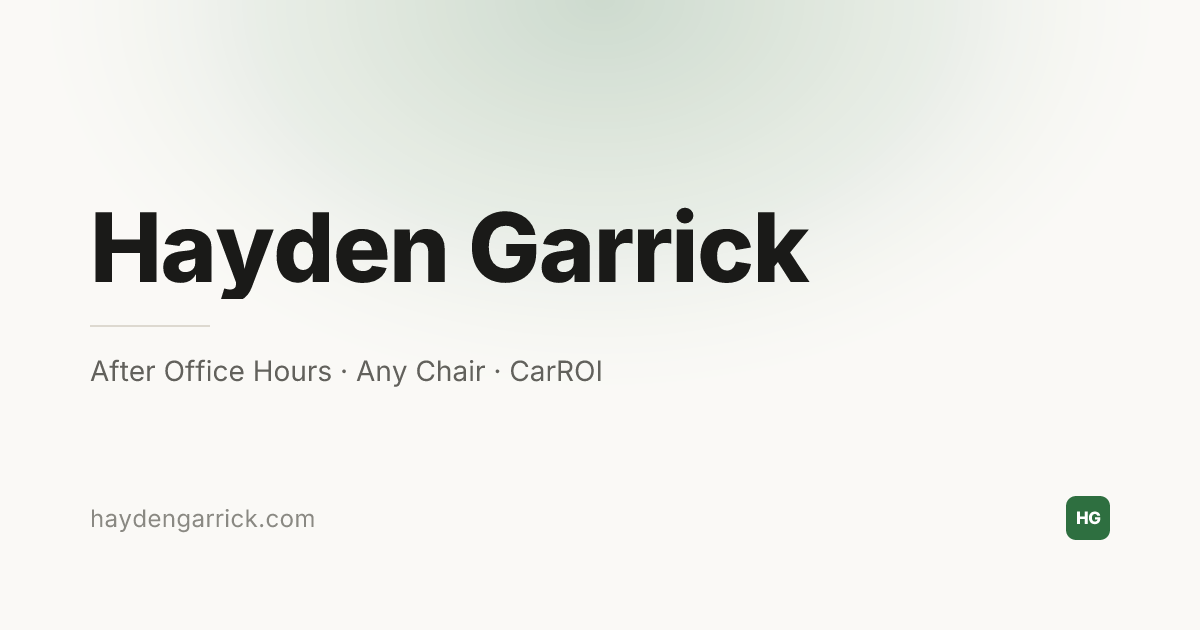
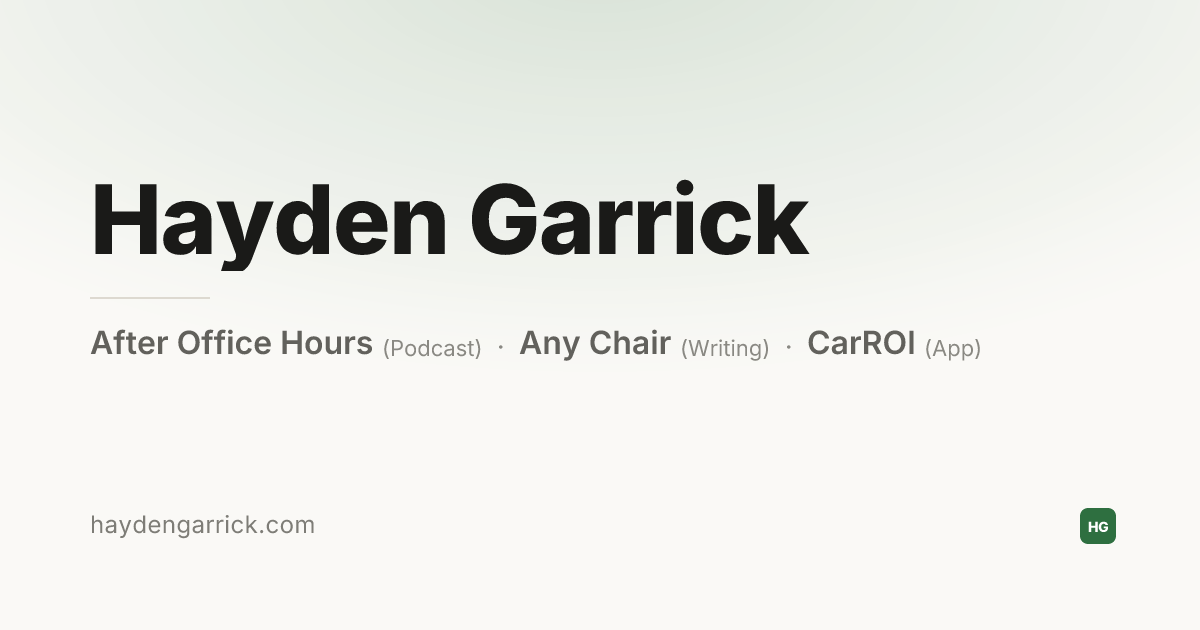
Refine OG card: layered subtitle, softer glow, tighter badge

diff --git a/src/lib/og/template.ts b/src/lib/og/template.ts
@@ -1,4 +1,4 @@
-import type { OgCardContent } from './types';
+import type { DescriptionSegment, OgCardContent } from './types';
 
 // A minimal stand-in for a React element — satori only cares about this
 // exact `{ type, props }` shape at runtime, so building the tree by hand
@@ -27,6 +27,10 @@ const COLOR = {
   faint: '#8a8983',
   line: '#ddd9d0',
   accent: '#2e6f40',
+  // Sits between `subtle` and `faint` — the footer URL wants slightly more
+  // contrast than the site's default "faint" tone without competing with
+  // the subtitle above it.
+  footer: '#7e7d77',
 } as const;
 
 export const OG_CANVAS = { width: 1200, height: 630 } as const;
@@ -48,7 +52,46 @@ function pickTitleFontSize(title: string): number {
 }
 
 function pickDescriptionFontSize(description: string): number {
-  return description.length > 100 ? 25 : 28;
+  return description.length > 100 ? 28 : 32;
+}
+
+// Inline styling for a single mixed-emphasis subtitle token — bold/higher-
+// contrast for the primary names, small/light/low-contrast for the quiet
+// "(Podcast)"-style descriptors and the "·" separators between groups.
+const SEGMENT_STYLE: Record<DescriptionSegment['emphasis'], Record<string, unknown>> = {
+  primary: { fontSize: 32, fontWeight: 600, color: COLOR.subtle },
+  secondary: { fontSize: 22, fontWeight: 400, color: COLOR.faint },
+  separator: { fontSize: 26, fontWeight: 400, color: COLOR.faint },
+};
+
+const SEGMENT_GAP: Record<DescriptionSegment['emphasis'], number> = {
+  primary: 14,
+  secondary: 8,
+  separator: 14,
+};
+
+function buildSegmentedDescription(segments: DescriptionSegment[]): SatoriNode {
+  return el(
+    'div',
+    {
+      display: 'flex',
+      flexDirection: 'row',
+      flexWrap: 'nowrap',
+      alignItems: 'baseline',
+    },
+    segments.map((segment, index) =>
+      el(
+        'div',
+        {
+          display: 'flex',
+          whiteSpace: 'nowrap',
+          marginLeft: index === 0 ? 0 : SEGMENT_GAP[segment.emphasis],
+          ...SEGMENT_STYLE[segment.emphasis],
+        },
+        segment.text,
+      ),
+    ),
+  );
 }
 
 export function buildOgNode(content: OgCardContent): SatoriNode {
@@ -72,7 +115,7 @@ export function buildOgNode(content: OgCardContent): SatoriNode {
     );
   }
 
-  const hasSecondaryContent = Boolean(content.description || content.meta);
+  const hasSecondaryContent = Boolean(content.description || content.descriptionSegments || content.meta);
 
   children.push(
     el(
@@ -110,7 +153,9 @@ export function buildOgNode(content: OgCardContent): SatoriNode {
     );
   }
 
-  if (content.description) {
+  if (content.descriptionSegments) {
+    children.push(buildSegmentedDescription(content.descriptionSegments));
+  } else if (content.description) {
     children.push(
       el(
         'div',
@@ -154,21 +199,24 @@ export function buildOgNode(content: OgCardContent): SatoriNode {
       flexGrow: 1,
       justifyContent: 'center',
       position: 'relative',
+      // Nudges the vertically-centered block up off dead-center for better
+      // balance against the footer row below it.
+      transform: 'translateY(-35px)',
     },
     children,
   );
 
   // Reproduces the site's own hero glow (see BaseLayout.astro) at card scale
-  // — a soft radial wash, not a hard-edged blob, kept subtle enough not to
-  // reduce text legibility at small preview sizes.
+  // — broad and diffuse across the upper third rather than a tight spotlight,
+  // via a wide low-opacity ellipse with gradual falloff stops.
   const glow = el('div', {
     position: 'absolute',
     top: 0,
     left: 0,
     width: OG_CANVAS.width,
-    height: 420,
+    height: 480,
     backgroundImage:
-      'radial-gradient(ellipse at 50% 0%, rgba(46,111,64,0.22) 0%, rgba(46,111,64,0.09) 40%, rgba(250,249,246,0) 72%)',
+      'radial-gradient(ellipse 1100px 520px at 50% -8%, rgba(46,111,64,0.17) 0%, rgba(46,111,64,0.09) 38%, rgba(46,111,64,0.04) 62%, rgba(250,249,246,0) 88%)',
   });
 
   const footerRow = el(
@@ -186,7 +234,7 @@ export function buildOgNode(content: OgCardContent): SatoriNode {
         {
           display: 'flex',
           fontSize: 24,
-          color: COLOR.faint,
+          color: COLOR.footer,
           letterSpacing: 0.4,
         },
         content.footer,
@@ -195,21 +243,24 @@ export function buildOgNode(content: OgCardContent): SatoriNode {
         'div',
         {
           display: 'flex',
-          width: 44,
-          height: 44,
-          borderRadius: 10,
+          width: 36,
+          height: 36,
+          borderRadius: 8,
           backgroundColor: COLOR.accent,
           alignItems: 'center',
           justifyContent: 'center',
+          // Small, deliberate nudge toward the corner — stays inside the
+          // overall safe margin (only the badge shifts; text stays put).
+          margin: '0 -6px -4px 0',
         },
         el(
           'div',
           {
             display: 'flex',
-            fontSize: 17,
+            fontSize: 14,
             fontWeight: 800,
             color: '#ffffff',
-            letterSpacing: -0.5,
+            letterSpacing: -0.3,
           },
           'HG',
         ),

diff --git a/src/lib/og/content.ts b/src/lib/og/content.ts
@@ -11,16 +11,23 @@ const latestEpisodeDate = parseEpisodeDate(latestEpisode.date).toLocaleDateStrin
   year: 'numeric',
 });
 
+// Bump whenever template.ts's visual output changes (colors, spacing, sizing,
+// glow, etc.) — folded into every card's version hash below so a purely
+// stylistic template edit still busts cached previews on every card, even
+// ones whose own text content didn't change.
+const TEMPLATE_VERSION = 2;
+
 export interface VersionedOgCardContent extends OgCardContent {
-  /** Short hash of the card's own text — changes only when the copy changes,
-   *  so it can be appended to the image URL as a stable cache-busting query
-   *  param (`?v=...`) without producing a new value on every unrelated build. */
+  /** Short hash of the card's own text plus TEMPLATE_VERSION — changes
+   *  whenever the copy or the shared template changes, so it can be
+   *  appended to the image URL as a stable cache-busting query param
+   *  (`?v=...`) without producing a new value on every unrelated build. */
   version: string;
 }
 
 function withVersion(content: OgCardContent): VersionedOgCardContent {
   const version = createHash('sha256')
-    .update(JSON.stringify(content))
+    .update(JSON.stringify({ content, templateVersion: TEMPLATE_VERSION }))
     .digest('hex')
     .slice(0, 8);
   return { ...content, version };
@@ -35,7 +42,16 @@ export const ogContent = {
     id: 'home',
     outputFile: 'home.png',
     title: 'Hayden Garrick',
-    description: 'After Office Hours · Any Chair · CarROI',
+    descriptionSegments: [
+      { text: 'After Office Hours', emphasis: 'primary' },
+      { text: '(Podcast)', emphasis: 'secondary' },
+      { text: '·', emphasis: 'separator' },
+      { text: 'Any Chair', emphasis: 'primary' },
+      { text: '(Writing)', emphasis: 'secondary' },
+      { text: '·', emphasis: 'separator' },
+      { text: 'CarROI', emphasis: 'primary' },
+      { text: '(App)', emphasis: 'secondary' },
+    ],
     footer: 'haydengarrick.com',
     alt: 'Hayden Garrick — After Office Hours, Any Chair, and CarROI.',
   }),

diff --git a/src/lib/og/types.ts b/src/lib/og/types.ts
@@ -1,3 +1,11 @@
+// One token in a mixed-emphasis subtitle — e.g. "After Office Hours" (primary)
+// followed by "(Podcast)" (secondary, quieter supporting context) — rendered
+// inline on a single row instead of a single flat string.
+export interface DescriptionSegment {
+  text: string;
+  emphasis: 'primary' | 'secondary' | 'separator';
+}
+
 // Typed content for a single generated Open Graph card. Every field here is
 // what actually gets drawn on the 1200x630 PNG — see `template.ts` for layout
 // and `content.ts` for the real per-page values.
@@ -10,8 +18,12 @@ export interface OgCardContent {
   eyebrow?: string;
   /** Large headline. Required — this is the dominant element on the card. */
   title: string;
-  /** Secondary line under the title (tagline, article dek, etc). */
+  /** Secondary line under the title (tagline, article dek, etc). Plain, single-emphasis. */
   description?: string;
+  /** Same role as `description`, but as mixed-emphasis inline tokens on one
+   *  row (e.g. names + quieter parenthetical labels). Takes precedence over
+   *  `description` when both are set. */
+  descriptionSegments?: DescriptionSegment[];
   /** Small tertiary line under the description (episode number, date, status). */
   meta?: string;
   /** Footer text, bottom-left (e.g. "haydengarrick.com/podcast"). */
